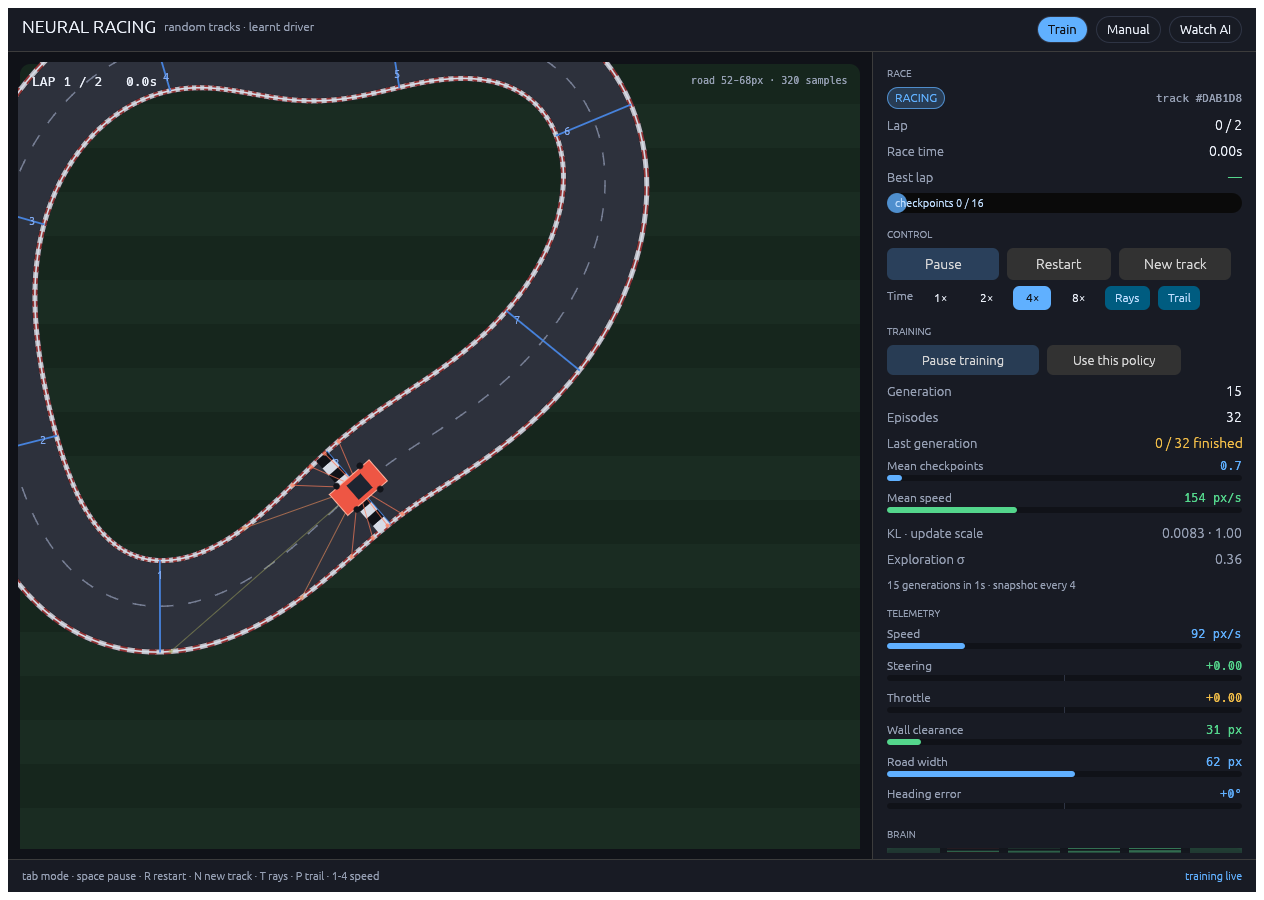
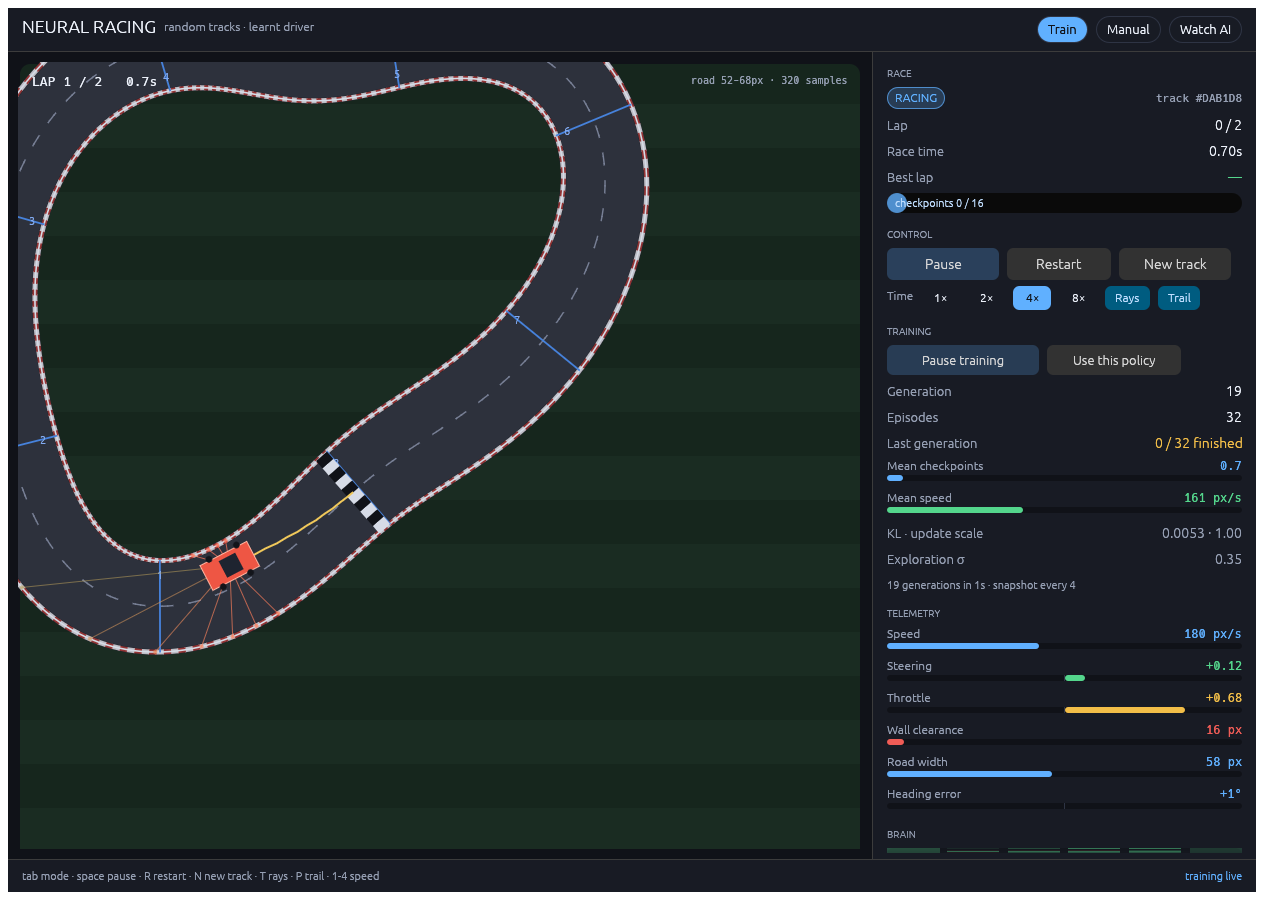
Screenshot the seeded watch race and keep images in the workspace docs
The watch capture now sets the mode before the seed, so the dashboard
shows the track the test names, and the output path is anchored to the
workspace instead of the crate directory.

diff --git a/crates/neural_racing_gui/tests/screenshots.rs b/crates/neural_racing_gui/tests/screenshots.rs
@@ -38,7 +38,12 @@ fn save(harness: &mut Harness<'static, App>, name: &str) {
 #[test]
 fn ai_keeps_driving_on_a_random_track() {
     let mut harness = harness();
-    harness.state_mut().configure(Some(7_654_321), Some(Mode::Watch), Some(2.0));
+    // Mode first, then the seed: switching mode resets the race, so a seed set
+    // before the switch would be replaced by a fresh random track.
+    harness
+        .state_mut()
+        .configure(None, Some(Mode::Watch), Some(2.0));
+    harness.state_mut().seed_with(7_654_321);
     harness.run_steps(150);
     let race = harness.state().race();
     assert!(!race.is_over(), "the trained AI crashed before the screenshot");
